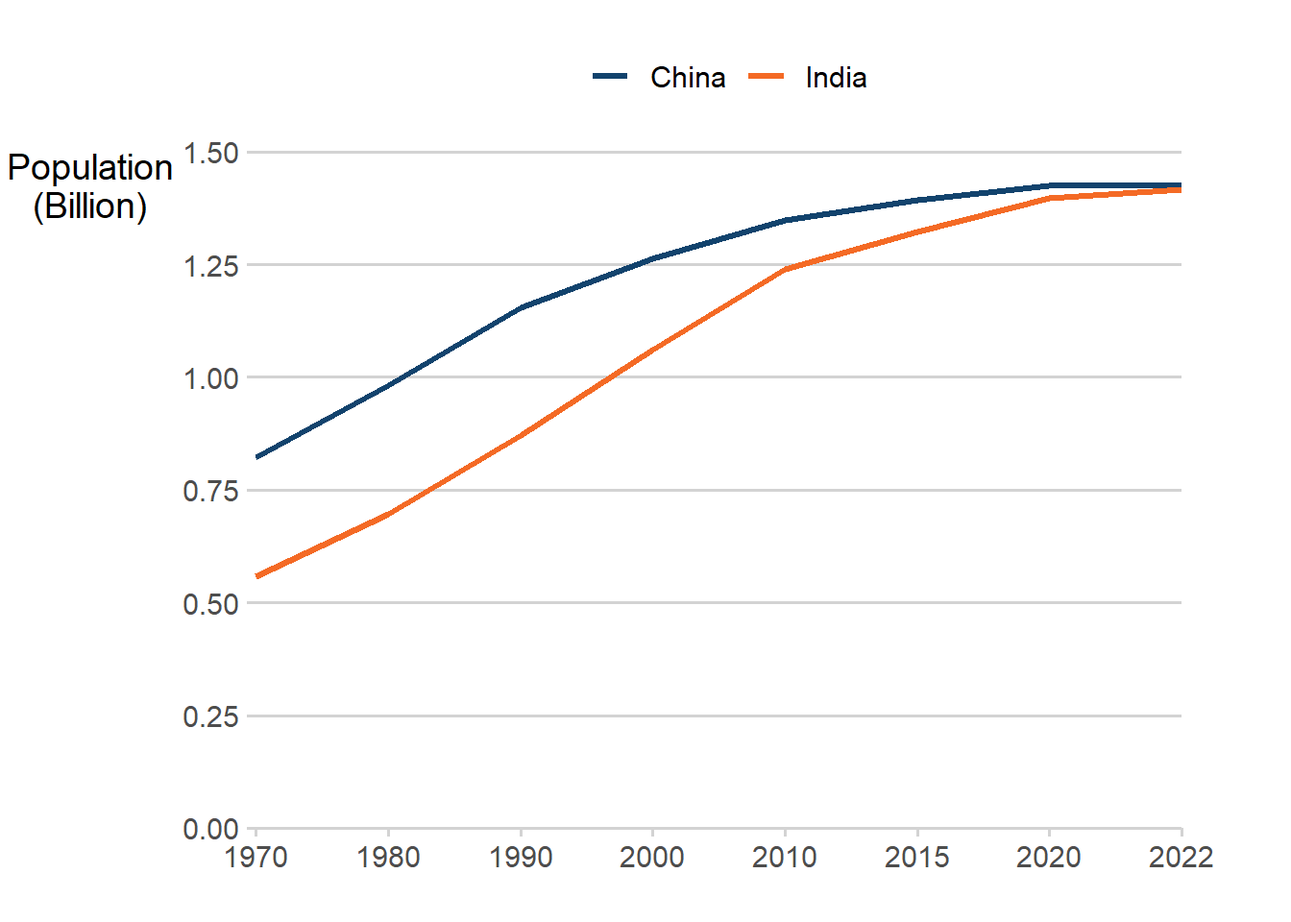
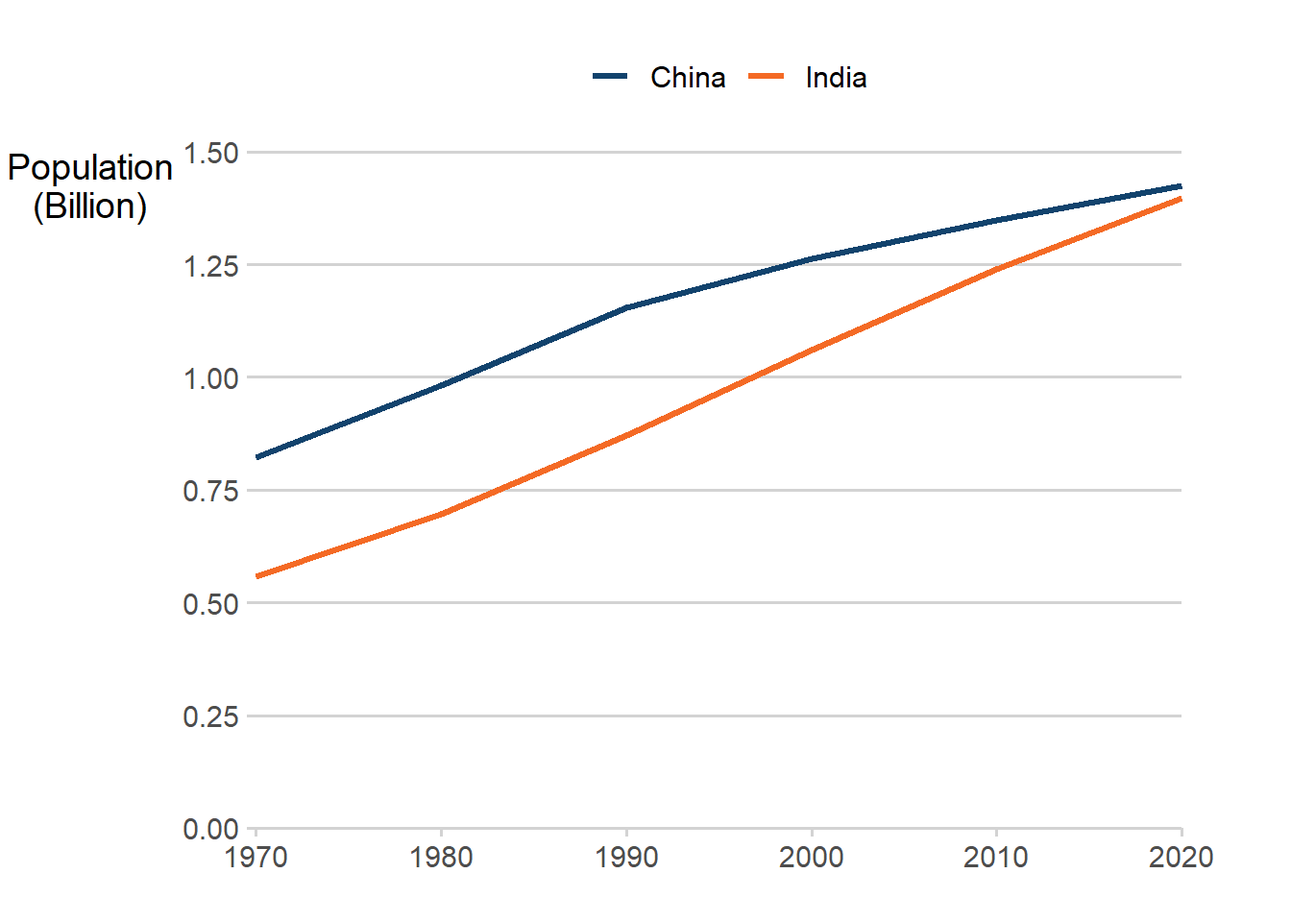
Change the x axis on graphs to be continuous similar to the python package (#9)

diff --git a/docs/index.html b/docs/index.html
@@ -128,7 +128,7 @@ table, th, td {
 <div class="cell">
 <div class="sourceCode" id="cb1"><pre class="sourceCode r cell-code code-with-copy"><code class="sourceCode r"><span id="cb1-1"><a href="#cb1-1" aria-hidden="true" tabindex="-1"></a>devtools<span class="sc">::</span><span class="fu">install_github</span>(<span class="st">"best-practice-and-impact/afcolours"</span>)</span></code><button title="Copy to Clipboard" class="code-copy-button"><i class="bi"></i></button></pre></div>
 <div class="cell-output-stderr">
-<pre><code>Skipping install of 'afcolours' from a github remote, the SHA1 (693eefe7) has not changed since last install.
+<pre><code>Skipping install of 'afcolours' from a github remote, the SHA1 (93d759c9) has not changed since last install.
   Use `force = TRUE` to force installation</code></pre>
 </div>
 </div>
@@ -256,28 +256,29 @@ Orange
 <span id="cb9-11"><a href="#cb9-11" aria-hidden="true" tabindex="-1"></a></span>
 <span id="cb9-12"><a href="#cb9-12" aria-hidden="true" tabindex="-1"></a>two_series_data <span class="ot">&lt;-</span> world_population[<span class="dv">1</span><span class="sc">:</span><span class="dv">2</span>,] <span class="sc">%&gt;%</span> </span>
 <span id="cb9-13"><a href="#cb9-13" aria-hidden="true" tabindex="-1"></a>  <span class="fu">rename</span>(<span class="at">Country =</span> <span class="st">"Country/Territory"</span>) <span class="sc">%&gt;%</span></span>
-<span id="cb9-14"><a href="#cb9-14" aria-hidden="true" tabindex="-1"></a>  tidyr<span class="sc">::</span><span class="fu">gather</span>(Year, Population, <span class="sc">-</span>Country)</span>
-<span id="cb9-15"><a href="#cb9-15" aria-hidden="true" tabindex="-1"></a></span>
-<span id="cb9-16"><a href="#cb9-16" aria-hidden="true" tabindex="-1"></a><span class="co"># Create your chart</span></span>
-<span id="cb9-17"><a href="#cb9-17" aria-hidden="true" tabindex="-1"></a><span class="fu">ggplot</span>(two_series_data, <span class="fu">aes</span>(<span class="at">x =</span> Year, <span class="at">y =</span> Population,</span>
-<span id="cb9-18"><a href="#cb9-18" aria-hidden="true" tabindex="-1"></a>                            <span class="at">colour =</span> Country,</span>
-<span id="cb9-19"><a href="#cb9-19" aria-hidden="true" tabindex="-1"></a>                            <span class="at">group =</span> Country)) <span class="sc">+</span></span>
-<span id="cb9-20"><a href="#cb9-20" aria-hidden="true" tabindex="-1"></a>  <span class="fu">geom_line</span>(<span class="at">size=</span><span class="fl">1.1</span>) <span class="sc">+</span></span>
-<span id="cb9-21"><a href="#cb9-21" aria-hidden="true" tabindex="-1"></a>  <span class="fu">scale_colour_manual</span>(<span class="at">values=</span>af_duo_colours, <span class="at">name=</span><span class="fu">element_blank</span>()) <span class="sc">+</span></span>
-<span id="cb9-22"><a href="#cb9-22" aria-hidden="true" tabindex="-1"></a>  <span class="fu">labs</span>(<span class="at">x =</span> <span class="st">""</span>, <span class="at">y =</span> <span class="st">"Population</span><span class="sc">\n</span><span class="st">(Billion)"</span>) <span class="sc">+</span></span>
-<span id="cb9-23"><a href="#cb9-23" aria-hidden="true" tabindex="-1"></a>  <span class="fu">theme_classic</span>(<span class="dv">14</span>) <span class="sc">+</span></span>
-<span id="cb9-24"><a href="#cb9-24" aria-hidden="true" tabindex="-1"></a>  <span class="fu">coord_cartesian</span>(<span class="at">expand =</span> <span class="cn">FALSE</span>, <span class="at">clip =</span> <span class="st">'off'</span>) <span class="sc">+</span></span>
-<span id="cb9-25"><a href="#cb9-25" aria-hidden="true" tabindex="-1"></a>  <span class="fu">theme</span>(<span class="at">axis.title.y =</span> <span class="fu">element_text</span>(<span class="at">angle =</span> <span class="dv">0</span>), </span>
-<span id="cb9-26"><a href="#cb9-26" aria-hidden="true" tabindex="-1"></a>        <span class="at">panel.grid.major.y =</span> <span class="fu">element_line</span>(<span class="st">"light grey"</span>), </span>
-<span id="cb9-27"><a href="#cb9-27" aria-hidden="true" tabindex="-1"></a>        <span class="at">legend.position=</span><span class="st">"top"</span>, </span>
-<span id="cb9-28"><a href="#cb9-28" aria-hidden="true" tabindex="-1"></a>        <span class="at">axis.line =</span> <span class="fu">element_line</span>(<span class="cn">FALSE</span>), </span>
-<span id="cb9-29"><a href="#cb9-29" aria-hidden="true" tabindex="-1"></a>        <span class="at">axis.ticks =</span> <span class="fu">element_line</span>(<span class="st">"light grey"</span>),</span>
-<span id="cb9-30"><a href="#cb9-30" aria-hidden="true" tabindex="-1"></a>        <span class="at">plot.margin =</span> <span class="fu">margin</span>(<span class="fl">0.5</span>, <span class="fl">1.5</span>, <span class="fl">0.1</span>, <span class="fl">0.1</span>, <span class="st">"cm"</span>), </span>
-<span id="cb9-31"><a href="#cb9-31" aria-hidden="true" tabindex="-1"></a>        <span class="at">panel.grid.minor =</span> <span class="fu">element_blank</span>(),</span>
-<span id="cb9-32"><a href="#cb9-32" aria-hidden="true" tabindex="-1"></a>        <span class="at">panel.grid.major.x =</span> <span class="fu">element_blank</span>(), </span>
-<span id="cb9-33"><a href="#cb9-33" aria-hidden="true" tabindex="-1"></a>        <span class="at">panel.background =</span> <span class="fu">element_blank</span>()</span>
-<span id="cb9-34"><a href="#cb9-34" aria-hidden="true" tabindex="-1"></a>        ) <span class="sc">+</span></span>
-<span id="cb9-35"><a href="#cb9-35" aria-hidden="true" tabindex="-1"></a>  <span class="fu">scale_y_continuous</span>(<span class="at">limits=</span><span class="fu">c</span>(<span class="dv">0</span>,<span class="fl">1.5</span>), <span class="at">n.breaks =</span> <span class="dv">6</span>) </span></code><button title="Copy to Clipboard" class="code-copy-button"><i class="bi"></i></button></pre></div>
+<span id="cb9-14"><a href="#cb9-14" aria-hidden="true" tabindex="-1"></a>  tidyr<span class="sc">::</span><span class="fu">gather</span>(Year, Population, <span class="sc">-</span>Country) <span class="sc">%&gt;%</span></span>
+<span id="cb9-15"><a href="#cb9-15" aria-hidden="true" tabindex="-1"></a>  <span class="fu">filter</span>(Year <span class="sc">%in%</span> <span class="fu">seq</span>(<span class="dv">1970</span>, <span class="dv">2020</span>, <span class="at">by=</span><span class="dv">10</span>))</span>
+<span id="cb9-16"><a href="#cb9-16" aria-hidden="true" tabindex="-1"></a></span>
+<span id="cb9-17"><a href="#cb9-17" aria-hidden="true" tabindex="-1"></a><span class="co"># Create your chart</span></span>
+<span id="cb9-18"><a href="#cb9-18" aria-hidden="true" tabindex="-1"></a><span class="fu">ggplot</span>(two_series_data, <span class="fu">aes</span>(<span class="at">x =</span> Year, <span class="at">y =</span> Population,</span>
+<span id="cb9-19"><a href="#cb9-19" aria-hidden="true" tabindex="-1"></a>                            <span class="at">colour =</span> Country,</span>
+<span id="cb9-20"><a href="#cb9-20" aria-hidden="true" tabindex="-1"></a>                            <span class="at">group =</span> Country)) <span class="sc">+</span></span>
+<span id="cb9-21"><a href="#cb9-21" aria-hidden="true" tabindex="-1"></a>  <span class="fu">geom_line</span>(<span class="at">size=</span><span class="fl">1.1</span>) <span class="sc">+</span></span>
+<span id="cb9-22"><a href="#cb9-22" aria-hidden="true" tabindex="-1"></a>  <span class="fu">scale_colour_manual</span>(<span class="at">values=</span>af_duo_colours, <span class="at">name=</span><span class="fu">element_blank</span>()) <span class="sc">+</span></span>
+<span id="cb9-23"><a href="#cb9-23" aria-hidden="true" tabindex="-1"></a>  <span class="fu">labs</span>(<span class="at">x =</span> <span class="st">""</span>, <span class="at">y =</span> <span class="st">"Population</span><span class="sc">\n</span><span class="st">(Billion)"</span>) <span class="sc">+</span></span>
+<span id="cb9-24"><a href="#cb9-24" aria-hidden="true" tabindex="-1"></a>  <span class="fu">theme_classic</span>(<span class="dv">14</span>) <span class="sc">+</span></span>
+<span id="cb9-25"><a href="#cb9-25" aria-hidden="true" tabindex="-1"></a>  <span class="fu">coord_cartesian</span>(<span class="at">expand =</span> <span class="cn">FALSE</span>, <span class="at">clip =</span> <span class="st">'off'</span>) <span class="sc">+</span></span>
+<span id="cb9-26"><a href="#cb9-26" aria-hidden="true" tabindex="-1"></a>  <span class="fu">theme</span>(<span class="at">axis.title.y =</span> <span class="fu">element_text</span>(<span class="at">angle =</span> <span class="dv">0</span>), </span>
+<span id="cb9-27"><a href="#cb9-27" aria-hidden="true" tabindex="-1"></a>        <span class="at">panel.grid.major.y =</span> <span class="fu">element_line</span>(<span class="st">"light grey"</span>), </span>
+<span id="cb9-28"><a href="#cb9-28" aria-hidden="true" tabindex="-1"></a>        <span class="at">legend.position=</span><span class="st">"top"</span>, </span>
+<span id="cb9-29"><a href="#cb9-29" aria-hidden="true" tabindex="-1"></a>        <span class="at">axis.line =</span> <span class="fu">element_line</span>(<span class="cn">FALSE</span>), </span>
+<span id="cb9-30"><a href="#cb9-30" aria-hidden="true" tabindex="-1"></a>        <span class="at">axis.ticks =</span> <span class="fu">element_line</span>(<span class="st">"light grey"</span>),</span>
+<span id="cb9-31"><a href="#cb9-31" aria-hidden="true" tabindex="-1"></a>        <span class="at">plot.margin =</span> <span class="fu">margin</span>(<span class="fl">0.5</span>, <span class="fl">1.5</span>, <span class="fl">0.1</span>, <span class="fl">0.1</span>, <span class="st">"cm"</span>), </span>
+<span id="cb9-32"><a href="#cb9-32" aria-hidden="true" tabindex="-1"></a>        <span class="at">panel.grid.minor =</span> <span class="fu">element_blank</span>(),</span>
+<span id="cb9-33"><a href="#cb9-33" aria-hidden="true" tabindex="-1"></a>        <span class="at">panel.grid.major.x =</span> <span class="fu">element_blank</span>(), </span>
+<span id="cb9-34"><a href="#cb9-34" aria-hidden="true" tabindex="-1"></a>        <span class="at">panel.background =</span> <span class="fu">element_blank</span>()</span>
+<span id="cb9-35"><a href="#cb9-35" aria-hidden="true" tabindex="-1"></a>        ) <span class="sc">+</span></span>
+<span id="cb9-36"><a href="#cb9-36" aria-hidden="true" tabindex="-1"></a>  <span class="fu">scale_y_continuous</span>(<span class="at">limits=</span><span class="fu">c</span>(<span class="dv">0</span>,<span class="fl">1.5</span>), <span class="at">n.breaks =</span> <span class="dv">6</span>) </span></code><button title="Copy to Clipboard" class="code-copy-button"><i class="bi"></i></button></pre></div>
 </div>
 <p><br></p>
 </section>
@@ -351,29 +352,30 @@ Grey
 <span id="cb10-12"><a href="#cb10-12" aria-hidden="true" tabindex="-1"></a>focus_data <span class="ot">&lt;-</span> world_population[<span class="dv">1</span><span class="sc">:</span><span class="dv">5</span>,] <span class="sc">%&gt;%</span> </span>
 <span id="cb10-13"><a href="#cb10-13" aria-hidden="true" tabindex="-1"></a>  <span class="fu">rename</span>(<span class="at">Country =</span> <span class="st">"Country/Territory"</span>) <span class="sc">%&gt;%</span></span>
 <span id="cb10-14"><a href="#cb10-14" aria-hidden="true" tabindex="-1"></a>  tidyr<span class="sc">::</span><span class="fu">gather</span>(Year, Population, <span class="sc">-</span>Country) <span class="sc">%&gt;%</span></span>
-<span id="cb10-15"><a href="#cb10-15" aria-hidden="true" tabindex="-1"></a>  <span class="fu">mutate</span>(<span class="at">highlight =</span> <span class="fu">ifelse</span>(Country <span class="sc">==</span> <span class="st">"India"</span>, <span class="st">"India"</span>, <span class="st">"Other"</span>))</span>
-<span id="cb10-16"><a href="#cb10-16" aria-hidden="true" tabindex="-1"></a></span>
-<span id="cb10-17"><a href="#cb10-17" aria-hidden="true" tabindex="-1"></a><span class="co"># Create your chart</span></span>
-<span id="cb10-18"><a href="#cb10-18" aria-hidden="true" tabindex="-1"></a><span class="fu">ggplot</span>(focus_data, <span class="fu">aes</span>(<span class="at">x =</span> Year, <span class="at">y =</span> Population,</span>
-<span id="cb10-19"><a href="#cb10-19" aria-hidden="true" tabindex="-1"></a>                       <span class="at">group =</span> Country,</span>
-<span id="cb10-20"><a href="#cb10-20" aria-hidden="true" tabindex="-1"></a>                       <span class="at">colour =</span> highlight,</span>
-<span id="cb10-21"><a href="#cb10-21" aria-hidden="true" tabindex="-1"></a>                       <span class="at">size =</span> highlight)) <span class="sc">+</span></span>
-<span id="cb10-22"><a href="#cb10-22" aria-hidden="true" tabindex="-1"></a>  <span class="fu">geom_line</span>(<span class="at">size=</span><span class="dv">1</span>) <span class="sc">+</span></span>
-<span id="cb10-23"><a href="#cb10-23" aria-hidden="true" tabindex="-1"></a>  <span class="fu">labs</span>(<span class="at">x=</span><span class="st">"Year"</span>, <span class="at">y=</span><span class="st">"Population</span><span class="sc">\n</span><span class="st">(Billion)"</span>) <span class="sc">+</span></span>
-<span id="cb10-24"><a href="#cb10-24" aria-hidden="true" tabindex="-1"></a>  <span class="fu">scale_colour_manual</span>(<span class="at">values=</span>af_focus_colours, <span class="at">name=</span><span class="fu">element_blank</span>()) <span class="sc">+</span></span>
-<span id="cb10-25"><a href="#cb10-25" aria-hidden="true" tabindex="-1"></a>  <span class="fu">theme_classic</span>(<span class="dv">14</span>) <span class="sc">+</span></span>
-<span id="cb10-26"><a href="#cb10-26" aria-hidden="true" tabindex="-1"></a>  <span class="fu">coord_cartesian</span>(<span class="at">expand =</span> <span class="cn">FALSE</span>, <span class="at">clip =</span> <span class="st">'off'</span>) <span class="sc">+</span></span>
-<span id="cb10-27"><a href="#cb10-27" aria-hidden="true" tabindex="-1"></a>  <span class="fu">theme</span>(<span class="at">axis.title.y =</span> <span class="fu">element_text</span>(<span class="at">angle =</span> <span class="dv">0</span>), </span>
-<span id="cb10-28"><a href="#cb10-28" aria-hidden="true" tabindex="-1"></a>        <span class="at">panel.grid.major.y =</span> <span class="fu">element_line</span>(<span class="st">"light grey"</span>), </span>
-<span id="cb10-29"><a href="#cb10-29" aria-hidden="true" tabindex="-1"></a>        <span class="at">legend.position=</span><span class="st">"top"</span>, </span>
-<span id="cb10-30"><a href="#cb10-30" aria-hidden="true" tabindex="-1"></a>        <span class="at">axis.line =</span> <span class="fu">element_line</span>(<span class="cn">FALSE</span>), </span>
-<span id="cb10-31"><a href="#cb10-31" aria-hidden="true" tabindex="-1"></a>        <span class="at">axis.ticks =</span> <span class="fu">element_line</span>(<span class="st">"light grey"</span>),</span>
-<span id="cb10-32"><a href="#cb10-32" aria-hidden="true" tabindex="-1"></a>        <span class="at">plot.margin =</span> <span class="fu">margin</span>(<span class="fl">0.5</span>, <span class="fl">1.5</span>, <span class="fl">0.1</span>, <span class="fl">0.1</span>, <span class="st">"cm"</span>), </span>
-<span id="cb10-33"><a href="#cb10-33" aria-hidden="true" tabindex="-1"></a>        <span class="at">panel.grid.minor =</span> <span class="fu">element_blank</span>(),</span>
-<span id="cb10-34"><a href="#cb10-34" aria-hidden="true" tabindex="-1"></a>        <span class="at">panel.grid.major.x =</span> <span class="fu">element_blank</span>(), </span>
-<span id="cb10-35"><a href="#cb10-35" aria-hidden="true" tabindex="-1"></a>        <span class="at">panel.background =</span> <span class="fu">element_blank</span>()</span>
-<span id="cb10-36"><a href="#cb10-36" aria-hidden="true" tabindex="-1"></a>        ) <span class="sc">+</span></span>
-<span id="cb10-37"><a href="#cb10-37" aria-hidden="true" tabindex="-1"></a>  <span class="fu">scale_y_continuous</span>(<span class="at">limits=</span><span class="fu">c</span>(<span class="dv">0</span>,<span class="fl">1.5</span>), <span class="at">n.breaks =</span> <span class="dv">6</span>)</span></code><button title="Copy to Clipboard" class="code-copy-button"><i class="bi"></i></button></pre></div>
+<span id="cb10-15"><a href="#cb10-15" aria-hidden="true" tabindex="-1"></a>  <span class="fu">filter</span>(Year <span class="sc">%in%</span> <span class="fu">seq</span>(<span class="dv">1970</span>, <span class="dv">2020</span>, <span class="at">by=</span><span class="dv">10</span>)) <span class="sc">%&gt;%</span></span>
+<span id="cb10-16"><a href="#cb10-16" aria-hidden="true" tabindex="-1"></a>  <span class="fu">mutate</span>(<span class="at">highlight =</span> <span class="fu">ifelse</span>(Country <span class="sc">==</span> <span class="st">"India"</span>, <span class="st">"India"</span>, <span class="st">"Other"</span>))</span>
+<span id="cb10-17"><a href="#cb10-17" aria-hidden="true" tabindex="-1"></a></span>
+<span id="cb10-18"><a href="#cb10-18" aria-hidden="true" tabindex="-1"></a><span class="co"># Create your chart</span></span>
+<span id="cb10-19"><a href="#cb10-19" aria-hidden="true" tabindex="-1"></a><span class="fu">ggplot</span>(focus_data, <span class="fu">aes</span>(<span class="at">x =</span> Year, <span class="at">y =</span> Population,</span>
+<span id="cb10-20"><a href="#cb10-20" aria-hidden="true" tabindex="-1"></a>                       <span class="at">group =</span> Country,</span>
+<span id="cb10-21"><a href="#cb10-21" aria-hidden="true" tabindex="-1"></a>                       <span class="at">colour =</span> highlight,</span>
+<span id="cb10-22"><a href="#cb10-22" aria-hidden="true" tabindex="-1"></a>                       <span class="at">size =</span> highlight)) <span class="sc">+</span></span>
+<span id="cb10-23"><a href="#cb10-23" aria-hidden="true" tabindex="-1"></a>  <span class="fu">geom_line</span>(<span class="at">size=</span><span class="dv">1</span>) <span class="sc">+</span></span>
+<span id="cb10-24"><a href="#cb10-24" aria-hidden="true" tabindex="-1"></a>  <span class="fu">labs</span>(<span class="at">x=</span><span class="st">"Year"</span>, <span class="at">y=</span><span class="st">"Population</span><span class="sc">\n</span><span class="st">(Billion)"</span>) <span class="sc">+</span></span>
+<span id="cb10-25"><a href="#cb10-25" aria-hidden="true" tabindex="-1"></a>  <span class="fu">scale_colour_manual</span>(<span class="at">values=</span>af_focus_colours, <span class="at">name=</span><span class="fu">element_blank</span>()) <span class="sc">+</span></span>
+<span id="cb10-26"><a href="#cb10-26" aria-hidden="true" tabindex="-1"></a>  <span class="fu">theme_classic</span>(<span class="dv">14</span>) <span class="sc">+</span></span>
+<span id="cb10-27"><a href="#cb10-27" aria-hidden="true" tabindex="-1"></a>  <span class="fu">coord_cartesian</span>(<span class="at">expand =</span> <span class="cn">FALSE</span>, <span class="at">clip =</span> <span class="st">'off'</span>) <span class="sc">+</span></span>
+<span id="cb10-28"><a href="#cb10-28" aria-hidden="true" tabindex="-1"></a>  <span class="fu">theme</span>(<span class="at">axis.title.y =</span> <span class="fu">element_text</span>(<span class="at">angle =</span> <span class="dv">0</span>), </span>
+<span id="cb10-29"><a href="#cb10-29" aria-hidden="true" tabindex="-1"></a>        <span class="at">panel.grid.major.y =</span> <span class="fu">element_line</span>(<span class="st">"light grey"</span>), </span>
+<span id="cb10-30"><a href="#cb10-30" aria-hidden="true" tabindex="-1"></a>        <span class="at">legend.position=</span><span class="st">"top"</span>, </span>
+<span id="cb10-31"><a href="#cb10-31" aria-hidden="true" tabindex="-1"></a>        <span class="at">axis.line =</span> <span class="fu">element_line</span>(<span class="cn">FALSE</span>), </span>
+<span id="cb10-32"><a href="#cb10-32" aria-hidden="true" tabindex="-1"></a>        <span class="at">axis.ticks =</span> <span class="fu">element_line</span>(<span class="st">"light grey"</span>),</span>
+<span id="cb10-33"><a href="#cb10-33" aria-hidden="true" tabindex="-1"></a>        <span class="at">plot.margin =</span> <span class="fu">margin</span>(<span class="fl">0.5</span>, <span class="fl">1.5</span>, <span class="fl">0.1</span>, <span class="fl">0.1</span>, <span class="st">"cm"</span>), </span>
+<span id="cb10-34"><a href="#cb10-34" aria-hidden="true" tabindex="-1"></a>        <span class="at">panel.grid.minor =</span> <span class="fu">element_blank</span>(),</span>
+<span id="cb10-35"><a href="#cb10-35" aria-hidden="true" tabindex="-1"></a>        <span class="at">panel.grid.major.x =</span> <span class="fu">element_blank</span>(), </span>
+<span id="cb10-36"><a href="#cb10-36" aria-hidden="true" tabindex="-1"></a>        <span class="at">panel.background =</span> <span class="fu">element_blank</span>()</span>
+<span id="cb10-37"><a href="#cb10-37" aria-hidden="true" tabindex="-1"></a>        ) <span class="sc">+</span></span>
+<span id="cb10-38"><a href="#cb10-38" aria-hidden="true" tabindex="-1"></a>  <span class="fu">scale_y_continuous</span>(<span class="at">limits=</span><span class="fu">c</span>(<span class="dv">0</span>,<span class="fl">1.5</span>), <span class="at">n.breaks =</span> <span class="dv">6</span>)</span></code><button title="Copy to Clipboard" class="code-copy-button"><i class="bi"></i></button></pre></div>
 </div>
 <p><br></p>
 </section>
@@ -600,21 +602,22 @@ Light purple
 <span id="cb12-11"><a href="#cb12-11" aria-hidden="true" tabindex="-1"></a></span>
 <span id="cb12-12"><a href="#cb12-12" aria-hidden="true" tabindex="-1"></a>top_four_data <span class="ot">&lt;-</span> world_population[<span class="dv">1</span><span class="sc">:</span><span class="dv">4</span>,] <span class="sc">%&gt;%</span> </span>
 <span id="cb12-13"><a href="#cb12-13" aria-hidden="true" tabindex="-1"></a>  <span class="fu">rename</span>(<span class="at">Country =</span> <span class="st">"Country/Territory"</span>) <span class="sc">%&gt;%</span></span>
-<span id="cb12-14"><a href="#cb12-14" aria-hidden="true" tabindex="-1"></a>  tidyr<span class="sc">::</span><span class="fu">gather</span>(Year, Population, <span class="sc">-</span>Country)</span>
-<span id="cb12-15"><a href="#cb12-15" aria-hidden="true" tabindex="-1"></a></span>
-<span id="cb12-16"><a href="#cb12-16" aria-hidden="true" tabindex="-1"></a><span class="co"># Create your chart</span></span>
-<span id="cb12-17"><a href="#cb12-17" aria-hidden="true" tabindex="-1"></a><span class="fu">ggplot</span>(top_four_data, <span class="fu">aes</span>(<span class="at">x =</span> Year, <span class="at">y =</span> Population, <span class="at">fill =</span> Country)) <span class="sc">+</span></span>
-<span id="cb12-18"><a href="#cb12-18" aria-hidden="true" tabindex="-1"></a>  <span class="fu">geom_col</span>(<span class="at">width=</span><span class="fl">0.6</span>, <span class="at">position=</span><span class="fu">position_dodge</span>(<span class="fl">0.7</span>), <span class="at">stat=</span><span class="st">"identity"</span>) <span class="sc">+</span></span>
-<span id="cb12-19"><a href="#cb12-19" aria-hidden="true" tabindex="-1"></a>  <span class="fu">labs</span>(<span class="at">x=</span><span class="st">""</span>, <span class="at">y=</span><span class="st">"Population</span><span class="sc">\n</span><span class="st">(Billion)"</span>) <span class="sc">+</span></span>
-<span id="cb12-20"><a href="#cb12-20" aria-hidden="true" tabindex="-1"></a>  <span class="fu">scale_fill_manual</span>(<span class="at">values =</span> af_categorical_colours, <span class="at">name =</span> <span class="st">""</span>) <span class="sc">+</span></span>
-<span id="cb12-21"><a href="#cb12-21" aria-hidden="true" tabindex="-1"></a>  <span class="fu">ylim</span>(<span class="dv">0</span>, <span class="fl">1.5</span>) <span class="sc">+</span></span>
-<span id="cb12-22"><a href="#cb12-22" aria-hidden="true" tabindex="-1"></a>  <span class="fu">theme_classic</span>(<span class="dv">14</span>) <span class="sc">+</span></span>
-<span id="cb12-23"><a href="#cb12-23" aria-hidden="true" tabindex="-1"></a>  <span class="fu">theme</span>(<span class="at">axis.title.y =</span> <span class="fu">element_text</span>(<span class="at">angle =</span> <span class="dv">0</span>),</span>
-<span id="cb12-24"><a href="#cb12-24" aria-hidden="true" tabindex="-1"></a>        <span class="at">panel.grid.major.y =</span> <span class="fu">element_line</span>(<span class="st">"light grey"</span>), </span>
-<span id="cb12-25"><a href="#cb12-25" aria-hidden="true" tabindex="-1"></a>        <span class="at">legend.position=</span><span class="st">"top"</span>, </span>
-<span id="cb12-26"><a href="#cb12-26" aria-hidden="true" tabindex="-1"></a>        <span class="at">axis.line =</span> <span class="fu">element_line</span>(<span class="cn">FALSE</span>), </span>
-<span id="cb12-27"><a href="#cb12-27" aria-hidden="true" tabindex="-1"></a>        <span class="at">axis.ticks =</span> <span class="fu">element_line</span>(<span class="cn">FALSE</span>)</span>
-<span id="cb12-28"><a href="#cb12-28" aria-hidden="true" tabindex="-1"></a>        )</span></code><button title="Copy to Clipboard" class="code-copy-button"><i class="bi"></i></button></pre></div>
+<span id="cb12-14"><a href="#cb12-14" aria-hidden="true" tabindex="-1"></a>  tidyr<span class="sc">::</span><span class="fu">gather</span>(Year, Population, <span class="sc">-</span>Country) <span class="sc">%&gt;%</span></span>
+<span id="cb12-15"><a href="#cb12-15" aria-hidden="true" tabindex="-1"></a>  <span class="fu">filter</span>(Year <span class="sc">%in%</span> <span class="fu">c</span>(<span class="fu">seq</span>(<span class="dv">1990</span>, <span class="dv">2020</span>, <span class="at">by=</span><span class="dv">10</span>)))</span>
+<span id="cb12-16"><a href="#cb12-16" aria-hidden="true" tabindex="-1"></a></span>
+<span id="cb12-17"><a href="#cb12-17" aria-hidden="true" tabindex="-1"></a><span class="co"># Create your chart</span></span>
+<span id="cb12-18"><a href="#cb12-18" aria-hidden="true" tabindex="-1"></a><span class="fu">ggplot</span>(top_four_data, <span class="fu">aes</span>(<span class="at">x =</span> Year, <span class="at">y =</span> Population, <span class="at">fill =</span> Country)) <span class="sc">+</span></span>
+<span id="cb12-19"><a href="#cb12-19" aria-hidden="true" tabindex="-1"></a>  <span class="fu">geom_col</span>(<span class="at">width=</span><span class="fl">0.6</span>, <span class="at">position=</span><span class="fu">position_dodge</span>(<span class="fl">0.7</span>), <span class="at">stat=</span><span class="st">"identity"</span>) <span class="sc">+</span></span>
+<span id="cb12-20"><a href="#cb12-20" aria-hidden="true" tabindex="-1"></a>  <span class="fu">labs</span>(<span class="at">x=</span><span class="st">""</span>, <span class="at">y=</span><span class="st">"Population</span><span class="sc">\n</span><span class="st">(Billion)"</span>) <span class="sc">+</span></span>
+<span id="cb12-21"><a href="#cb12-21" aria-hidden="true" tabindex="-1"></a>  <span class="fu">scale_fill_manual</span>(<span class="at">values =</span> af_categorical_colours, <span class="at">name =</span> <span class="st">""</span>) <span class="sc">+</span></span>
+<span id="cb12-22"><a href="#cb12-22" aria-hidden="true" tabindex="-1"></a>  <span class="fu">ylim</span>(<span class="dv">0</span>, <span class="fl">1.5</span>) <span class="sc">+</span></span>
+<span id="cb12-23"><a href="#cb12-23" aria-hidden="true" tabindex="-1"></a>  <span class="fu">theme_classic</span>(<span class="dv">14</span>) <span class="sc">+</span></span>
+<span id="cb12-24"><a href="#cb12-24" aria-hidden="true" tabindex="-1"></a>  <span class="fu">theme</span>(<span class="at">axis.title.y =</span> <span class="fu">element_text</span>(<span class="at">angle =</span> <span class="dv">0</span>),</span>
+<span id="cb12-25"><a href="#cb12-25" aria-hidden="true" tabindex="-1"></a>        <span class="at">panel.grid.major.y =</span> <span class="fu">element_line</span>(<span class="st">"light grey"</span>), </span>
+<span id="cb12-26"><a href="#cb12-26" aria-hidden="true" tabindex="-1"></a>        <span class="at">legend.position=</span><span class="st">"top"</span>, </span>
+<span id="cb12-27"><a href="#cb12-27" aria-hidden="true" tabindex="-1"></a>        <span class="at">axis.line =</span> <span class="fu">element_line</span>(<span class="cn">FALSE</span>), </span>
+<span id="cb12-28"><a href="#cb12-28" aria-hidden="true" tabindex="-1"></a>        <span class="at">axis.ticks =</span> <span class="fu">element_line</span>(<span class="cn">FALSE</span>)</span>
+<span id="cb12-29"><a href="#cb12-29" aria-hidden="true" tabindex="-1"></a>        )</span></code><button title="Copy to Clipboard" class="code-copy-button"><i class="bi"></i></button></pre></div>
 </div>
 <p><br></p>
 </section>
@@ -640,10 +643,10 @@ Light purple
 <span id="cb13-11"><a href="#cb13-11" aria-hidden="true" tabindex="-1"></a>top_four_data <span class="ot">&lt;-</span> world_population[<span class="dv">1</span><span class="sc">:</span><span class="dv">4</span>,] <span class="sc">%&gt;%</span></span>
 <span id="cb13-12"><a href="#cb13-12" aria-hidden="true" tabindex="-1"></a>  <span class="fu">rename</span>(<span class="at">Country =</span> <span class="st">"Country/Territory"</span>) <span class="sc">%&gt;%</span></span>
 <span id="cb13-13"><a href="#cb13-13" aria-hidden="true" tabindex="-1"></a>  tidyr<span class="sc">::</span><span class="fu">gather</span>(Year, Population, <span class="sc">-</span>Country) <span class="sc">%&gt;%</span></span>
-<span id="cb13-14"><a href="#cb13-14" aria-hidden="true" tabindex="-1"></a>  <span class="fu">filter</span>(Year <span class="sc">==</span> <span class="fu">max</span>(Year)) <span class="sc">%&gt;%</span></span>
+<span id="cb13-14"><a href="#cb13-14" aria-hidden="true" tabindex="-1"></a>  <span class="fu">filter</span>(Year <span class="sc">==</span> <span class="dv">2020</span>) <span class="sc">%&gt;%</span></span>
 <span id="cb13-15"><a href="#cb13-15" aria-hidden="true" tabindex="-1"></a>  <span class="fu">arrange</span>(<span class="sc">-</span>Population) <span class="sc">%&gt;%</span></span>
 <span id="cb13-16"><a href="#cb13-16" aria-hidden="true" tabindex="-1"></a>  <span class="fu">mutate</span>(<span class="at">Label =</span> <span class="fu">paste</span>(Country, </span>
-<span id="cb13-17"><a href="#cb13-17" aria-hidden="true" tabindex="-1"></a>                       <span class="fu">paste0</span>(<span class="fu">round</span>(Population<span class="sc">/</span><span class="fu">sum</span>(Population)<span class="sc">*</span><span class="dv">100</span>, <span class="dv">2</span>), <span class="st">"%"</span>), </span>
+<span id="cb13-17"><a href="#cb13-17" aria-hidden="true" tabindex="-1"></a>                       <span class="fu">paste0</span>(<span class="fu">round</span>(Population<span class="sc">/</span><span class="fu">sum</span>(Population)<span class="sc">*</span><span class="dv">100</span>, <span class="dv">1</span>), <span class="st">"%"</span>), </span>
 <span id="cb13-18"><a href="#cb13-18" aria-hidden="true" tabindex="-1"></a>                       <span class="at">sep=</span><span class="st">" "</span>))</span>
 <span id="cb13-19"><a href="#cb13-19" aria-hidden="true" tabindex="-1"></a></span>
 <span id="cb13-20"><a href="#cb13-20" aria-hidden="true" tabindex="-1"></a><span class="co"># Create your chart</span></span>
